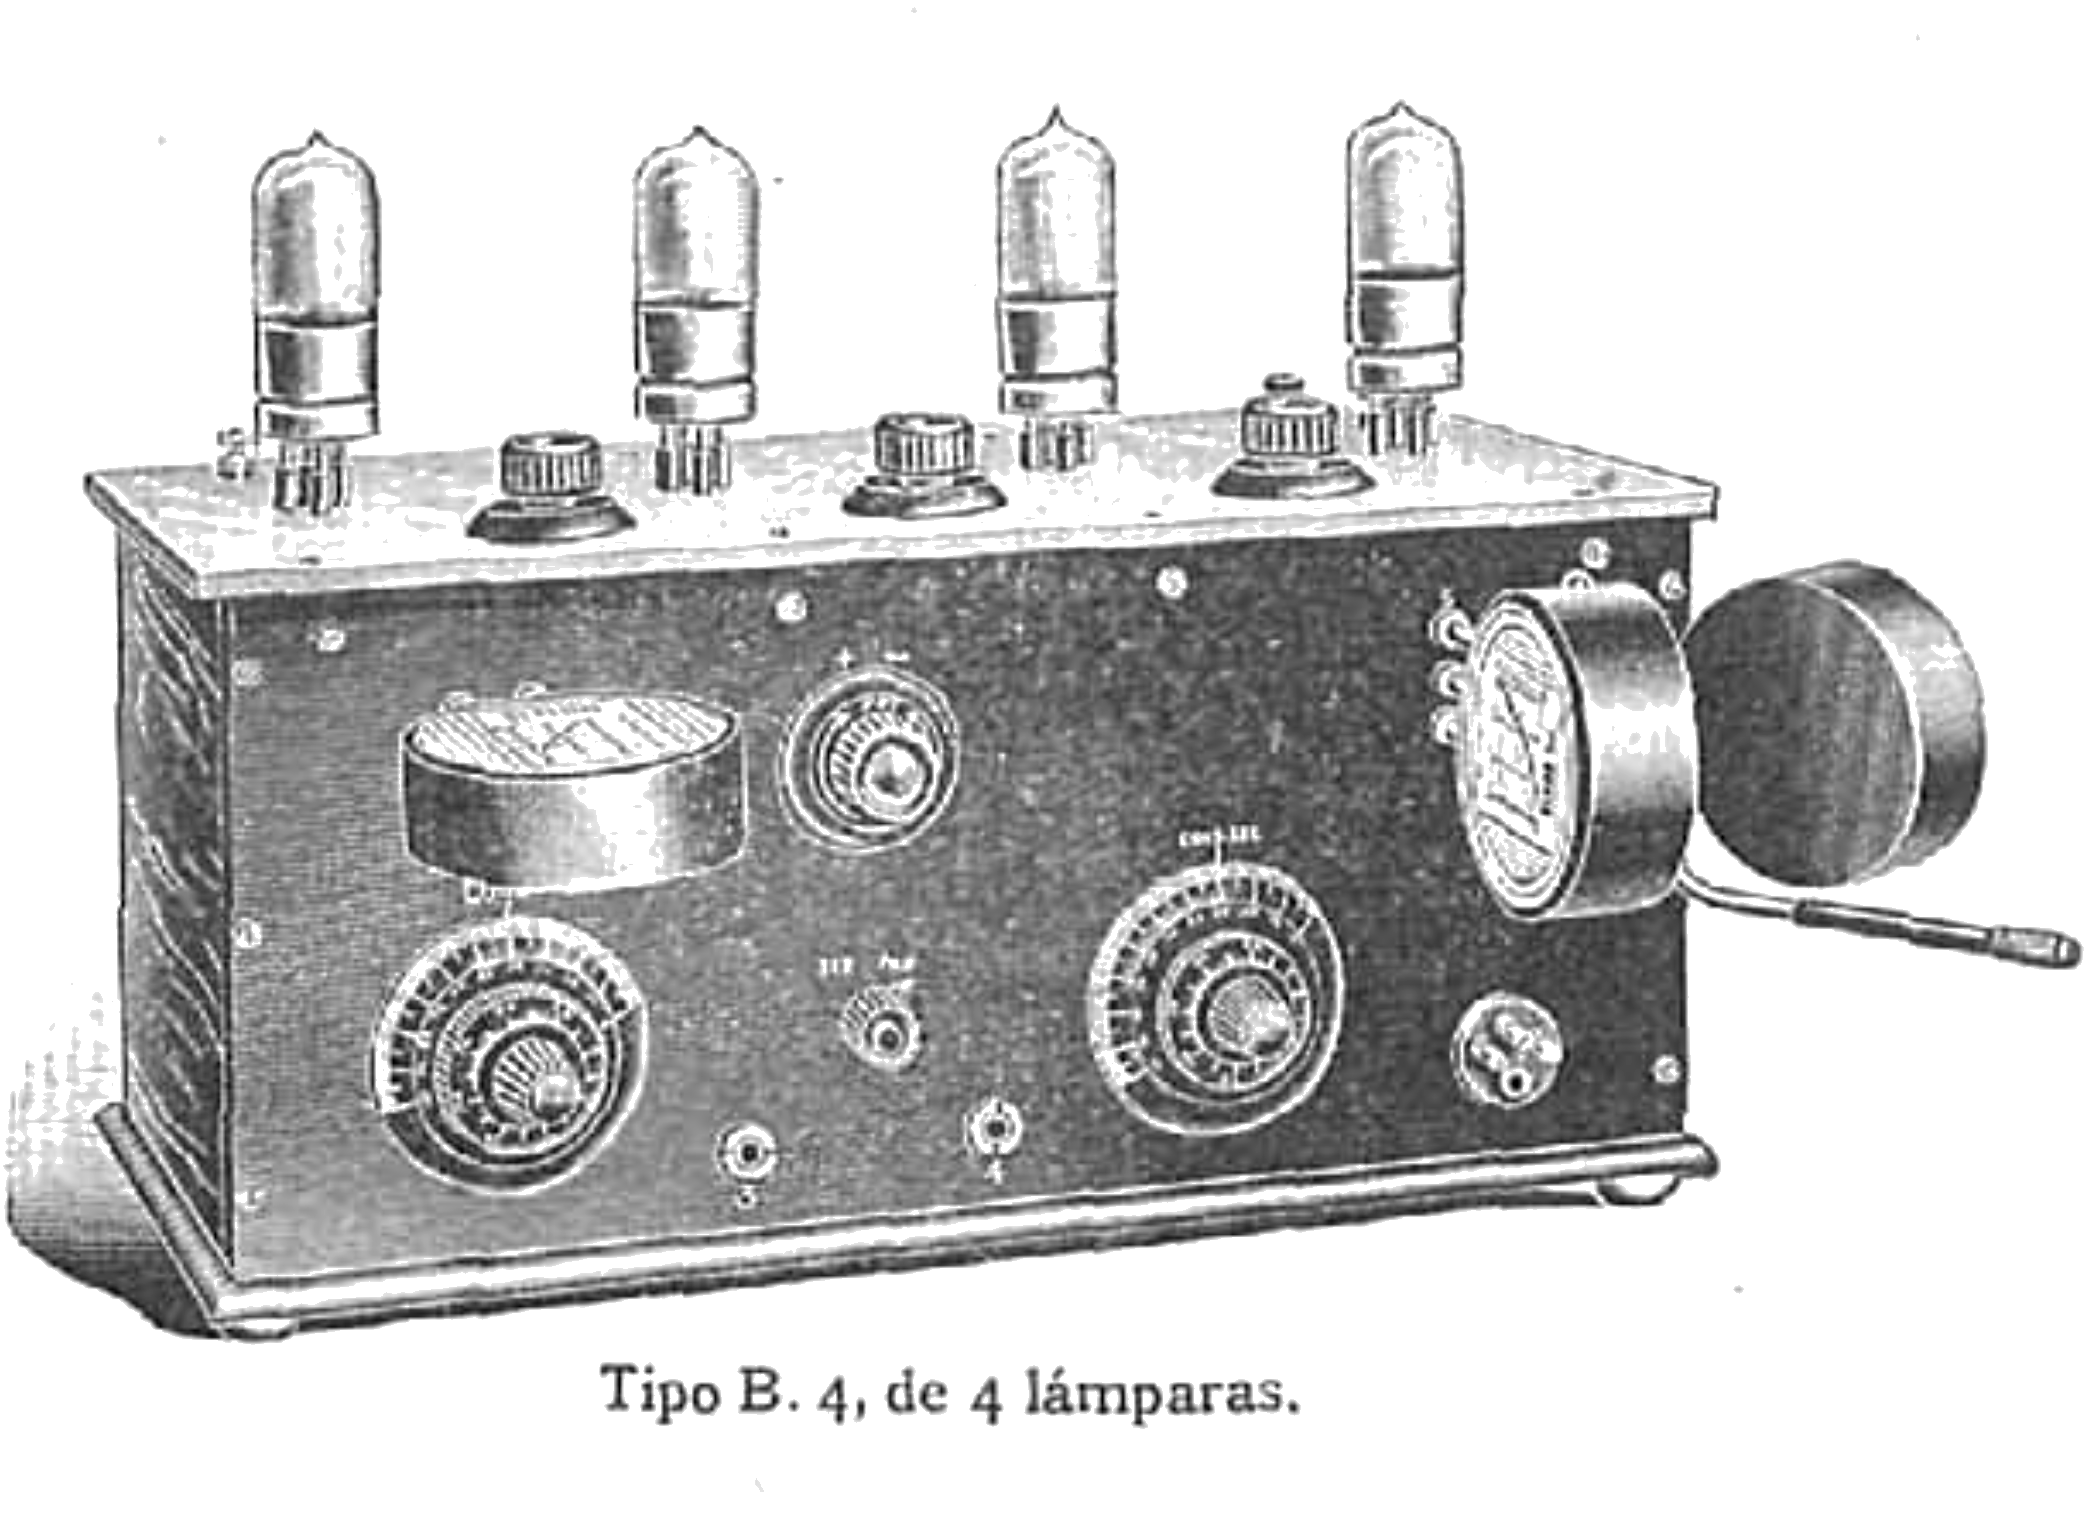
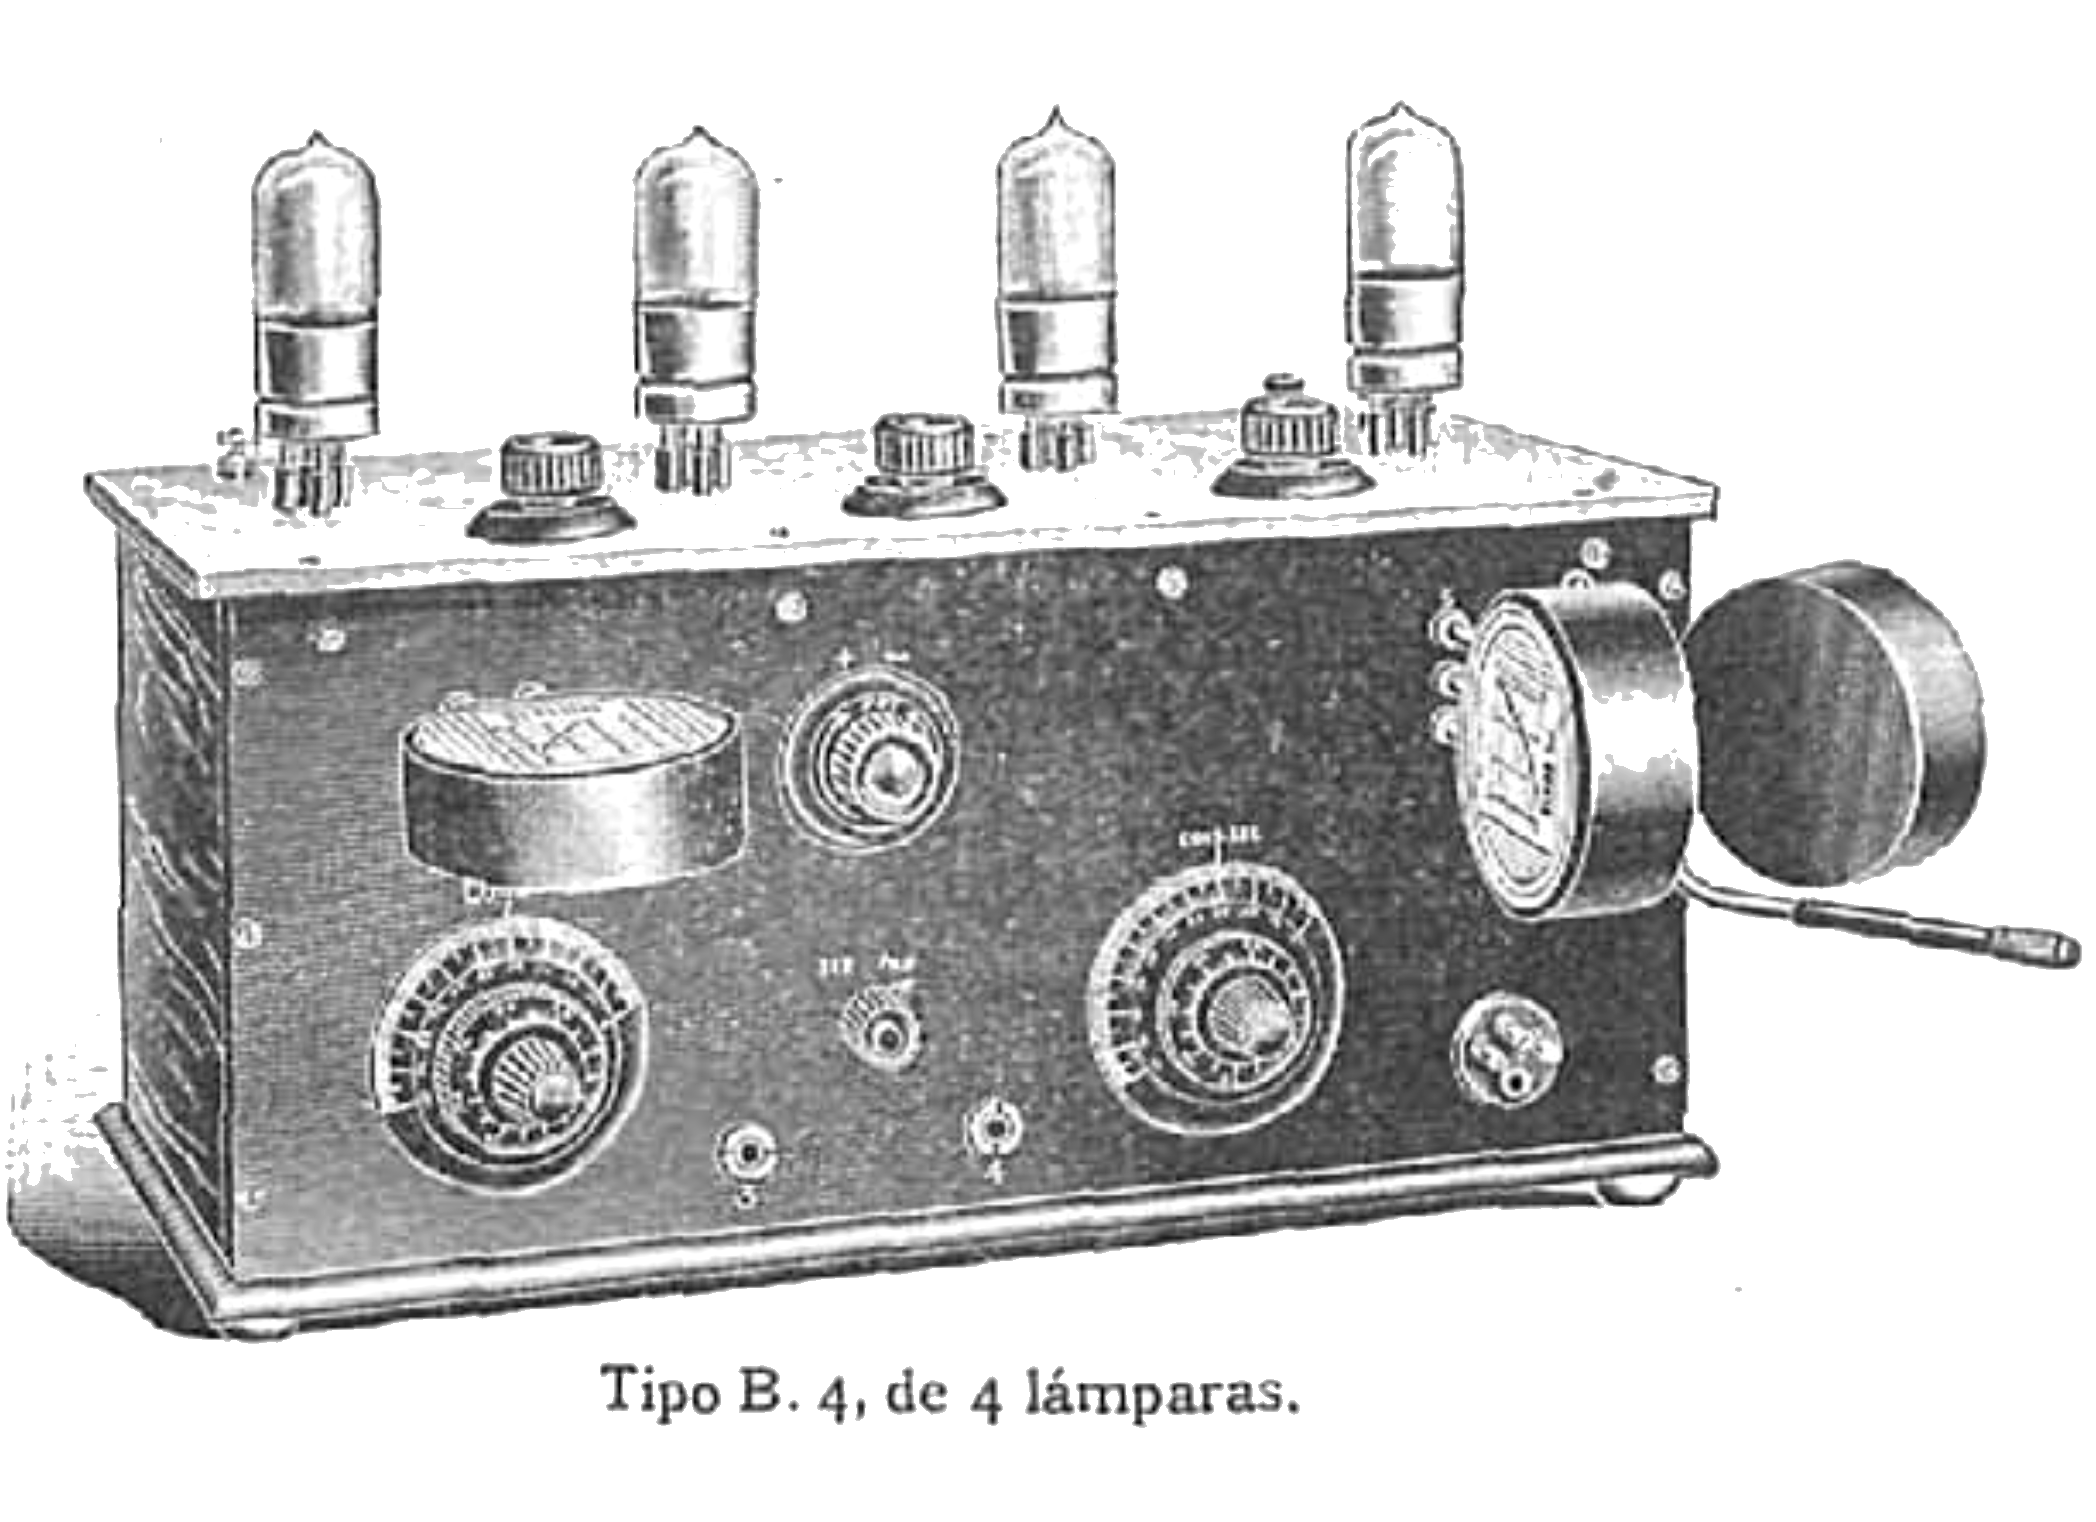
Radio 1926: fondo transparente (flood fill) y tamaño reducido a 130px

diff --git a/index.html b/index.html
@@ -295,9 +295,9 @@
       position: absolute;
       bottom: 0;
       right: 48px;
-      height: 170px;
+      height: 130px;
       width: auto;
-      opacity: 0.82;
+      opacity: 0.85;
       transform: rotate(8deg);
       transform-origin: bottom right;
       pointer-events: none;
